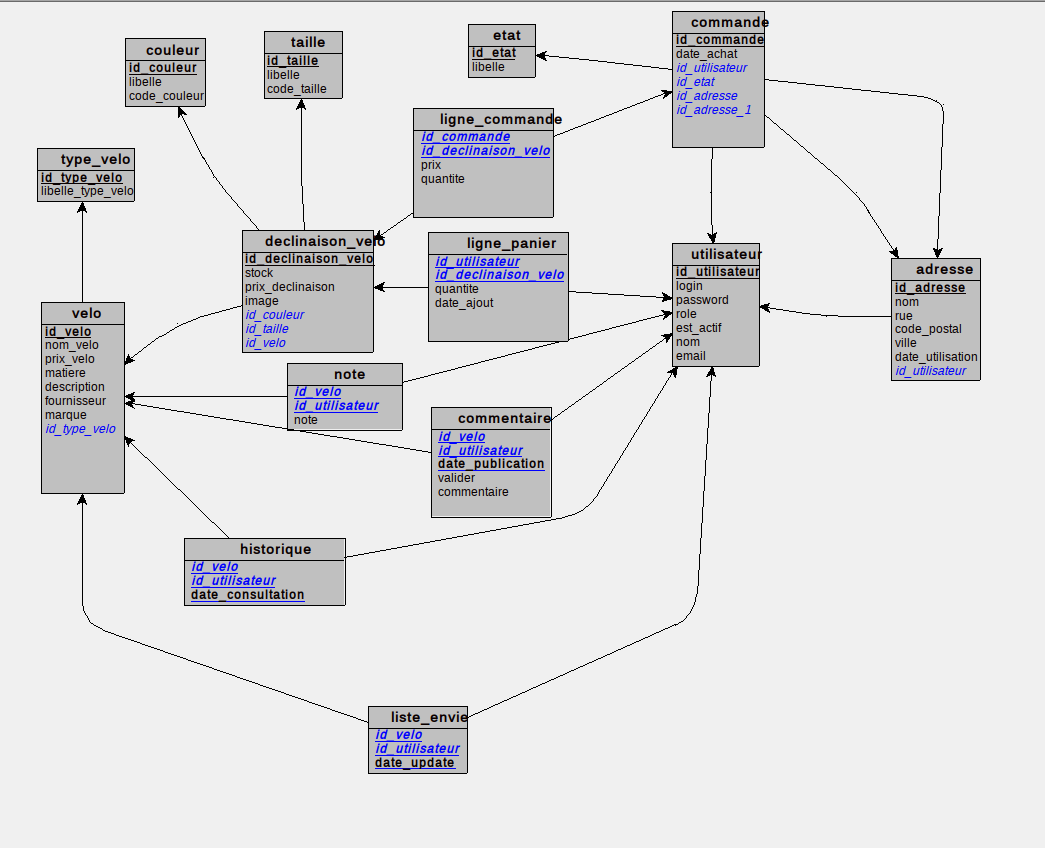
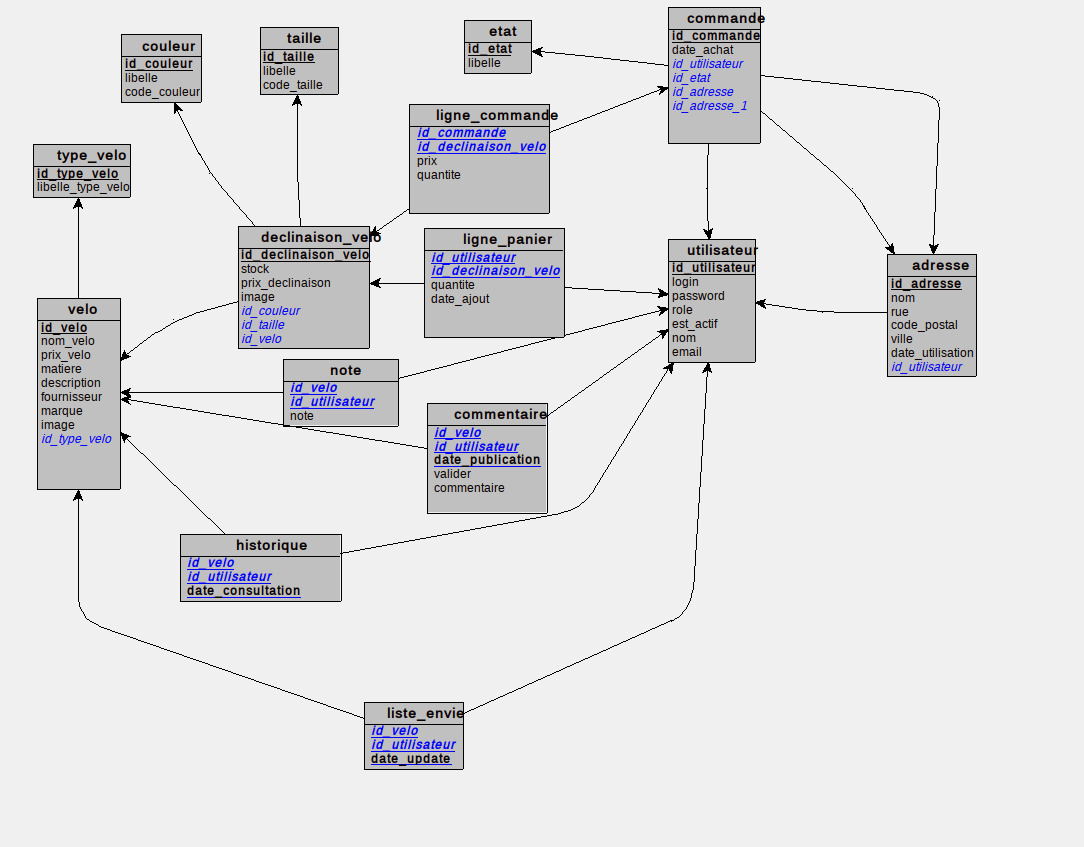
add image to velo

diff --git a/controllers/fixtures_load.py b/controllers/fixtures_load.py
@@ -180,6 +180,7 @@ def fct_fixtures_load():
        description VARCHAR(100),
        fournisseur VARCHAR(50),
        marque VARCHAR(50),
+        image VARCHAR(50),
        id_type_velo INT NOT NULL,
        PRIMARY KEY(id_velo),
        FOREIGN KEY(id_type_velo) REFERENCES type_velo(id_type_velo)
@@ -188,33 +189,33 @@ def fct_fixtures_load():
 
     mycursor.execute(sql)
     sql = '''
-    INSERT INTO velo (nom_velo, prix_velo, matiere, description, fournisseur, marque, id_type_velo) VALUES
-        -- BMX
-        ('BMX Orange',        100.00, 'Aluminium', 'BMX 20 pouces, 1 vitesse, freins patins',                              'Fournisseur BMX', 'BikeShop',     1), -- 1
-        -- Ville
-        ('Velo ville noir',   500.00, 'Acier',     'Vélo ville 26", 7 vitesses, éclairage dynamo, panier et porte-bagage', 'Urban Bikes',     'CityCycle',    2), -- 2
-        ('Velo ville jaune',  300.00, 'Acier',     'Vélo ville 24", 3 vitesses, garde-boue, panier et porte-bagage',       'Urban Bikes',     'CityCycle',    2), -- 3
-        ('Velo ville noir',   450.00, 'Acier',     'Vélo ville 26", 3 vitesses, freins disques, éclairage dynamo',         'Urban Bikes',     'VilleConfort', 2), -- 4
-        ('Velo ville rose',   450.00, 'Acier',     'Vélo ville 26", 3 vitesses, freins disques, dynamo, acc. complets',    'Urban Bikes',     'CityCycle',    2), -- 5
-        ('Velo ville orange', 350.00, 'Acier',     'Vélo ville 26", 3 vitesses, éclairage dynamo, porte-bagage',           'Urban Bikes',     'VilleConfort', 2), -- 6
-        ('Velo ville bleu',   350.00, 'Aluminium', 'Vélo ville 28", 3 vitesses, éclairage dynamo, porte-bagage',           'Urban Bikes',     'AluminiumPro', 2), -- 7
-        ('Velo ville blanc',  300.00, 'Acier',     'Vélo ville 24", 3 vitesses, freins disques, équipement complet',       'Urban Bikes',     'CityCycle',    2), -- 8
-        -- VTT
-        ('VTT orange',        450.00, 'Aluminium', 'VTT 26", 21 vitesses, freins disques',                                 'Mountain Gear',   'TrailPro',     3), -- 9
-        ('VTT noir',          750.00, 'Aluminium', 'VTT 28", 27 vitesses, freins disques, éclairage piles, garde-boue',    'Mountain Gear',   'AlpineSport',  3), -- 10
-        ('VTT noir',          600.00, 'Aluminium', 'VTT 26", 27 vitesses, freins patins',                                  'Mountain Gear',   'TrailPro',     3), -- 11
-        ('VTT orange',        800.00, 'Acier',     'VTT 28", 30 vitesses, freins disques haute performance',               'Mountain Gear',   'ProSport',     3), -- 12
-        -- Enfant
-        ('Velo enfant noir',  200.00, 'Acier',     'Vélo enfant 16", 5 vitesses, garde-boue',                              'Kids Bikes',      'Junior',       4), -- 13
-        ('Velo enfant bleu',  300.00, 'Acier',     'Vélo enfant 20", 5 vitesses, éclairage dynamo, garde-boue, panier',    'Kids Bikes',      'Junior',       4), -- 14
-        -- Pliant
-        ('Velo pliant',      1000.00, 'Acier',     'Vélo pliant 16", 6 vitesses, éclairage piles, compact et pratique',   'Compact Wheels',  'FoldMaster',   5), -- 15
-        -- VTC
-        ('VTC bleu',          400.00, 'Acier',     'VTC 28", 15 vitesses, éclairage dynamo, garde-boue, porte-bagage',     'Hybrid Cycles',   'Polyvalent',   6), -- 16
-        -- Route
-        ('Velo route bleu',   300.00, 'Acier',     'Vélo route 28", 10 vitesses, freins patins',                           'Speed Bikes',     'RacePro',      7), -- 17
-        ('Velo route marron', 250.00, 'Acier',     'Vélo route 28", 10 vitesses, freins patins',                           'Speed Bikes',     'ClassicRoad',  7), -- 18
-        ('Velo route rouge',  400.00, 'Acier',     'Vélo route 28", 15 vitesses, freins patins, performance',              'Speed Bikes',     'RacePro',      7); -- 19
+        INSERT INTO velo (nom_velo, prix_velo, matiere, description, fournisseur, marque, image, id_type_velo) VALUES
+                -- BMX
+                ('BMX Orange',        100.00, 'Aluminium', 'BMX 20 pouces, 1 vitesse, freins patins',                              'Fournisseur BMX', 'BikeShop',     'BMX1.jpg',  1), -- 1
+                -- Ville
+                ('Velo ville noir',   500.00, 'Acier',     'Vélo ville 26", 7 vitesses, éclairage dynamo, panier et porte-bagage', 'Urban Bikes',     'CityCycle',   'ville1.jpg',  2), -- 2
+                ('Velo ville jaune',  300.00, 'Acier',     'Vélo ville 24", 3 vitesses, garde-boue, panier et porte-bagage',       'Urban Bikes',     'CityCycle',    'ville2.jpg',2), -- 3
+                ('Velo ville noir',   450.00, 'Acier',     'Vélo ville 26", 3 vitesses, freins disques, éclairage dynamo',         'Urban Bikes',     'VilleConfort', 'ville3.jpg',  2), -- 4
+                ('Velo ville rose',   450.00, 'Acier',     'Vélo ville 26", 3 vitesses, freins disques, dynamo, acc. complets',    'Urban Bikes',     'CityCycle',   'ville4.jpeg',  2), -- 5
+                ('Velo ville orange', 350.00, 'Acier',     'Vélo ville 26", 3 vitesses, éclairage dynamo, porte-bagage',           'Urban Bikes',     'VilleConfort', 'ville5.jpg', 2), -- 6
+                ('Velo ville bleu',   350.00, 'Aluminium', 'Vélo ville 28", 3 vitesses, éclairage dynamo, porte-bagage',           'Urban Bikes',     'AluminiumPro','ville6.jpg',   2), -- 7
+                ('Velo ville blanc',  300.00, 'Acier',     'Vélo ville 24", 3 vitesses, freins disques, équipement complet',       'Urban Bikes',     'CityCycle',   'ville7.jpg',  2), -- 8
+                -- VTT
+                ('VTT orange',        450.00, 'Aluminium', 'VTT 26", 21 vitesses, freins disques',                                 'Mountain Gear',   'TrailPro',  'vtt1.jpeg',     3), -- 9
+                ('VTT noir',          750.00, 'Aluminium', 'VTT 28", 27 vitesses, freins disques, éclairage piles, garde-boue',    'Mountain Gear',   'AlpineSport', 'vtt2.jpeg',   3), -- 10
+                ('VTT noir',          600.00, 'Aluminium', 'VTT 26", 27 vitesses, freins patins',                                  'Mountain Gear',   'TrailPro',    'vtt3.jpeg',  3), -- 11
+                ('VTT orange',        800.00, 'Acier',     'VTT 28", 30 vitesses, freins disques haute performance',               'Mountain Gear',   'ProSport',   'vtt4.jpeg',     3), -- 12
+                -- Enfant
+                ('Velo enfant noir',  200.00, 'Acier',     'Vélo enfant 16", 5 vitesses, garde-boue',                              'Kids Bikes',      'Junior',     'enfant1.jpeg',  4), -- 13
+                ('Velo enfant bleu',  300.00, 'Acier',     'Vélo enfant 20", 5 vitesses, éclairage dynamo, garde-boue, panier',    'Kids Bikes',      'Junior',     'enfant2.jpeg',   4), -- 14
+                -- Pliant
+                ('Velo pliant',      1000.00, 'Acier',     'Vélo pliant 16", 6 vitesses, éclairage piles, compact et pratique',   'Compact Wheels',  'FoldMaster', 'pliant1.jpeg',  5), -- 15
+                -- VTC
+                ('VTC bleu',          400.00, 'Acier',     'VTC 28", 15 vitesses, éclairage dynamo, garde-boue, porte-bagage',     'Hybrid Cycles',   'Polyvalent',   'vtc1.jpeg',6), -- 16
+                -- Route
+                ('Velo route bleu',   300.00, 'Acier',     'Vélo route 28", 10 vitesses, freins patins',                           'Speed Bikes',     'RacePro',   'route1.jpeg',   7), -- 17
+                ('Velo route marron', 250.00, 'Acier',     'Vélo route 28", 10 vitesses, freins patins',                           'Speed Bikes',     'ClassicRoad',  'route2.jpeg', 7), -- 18
+                ('Velo route rouge',  400.00, 'Acier',     'Vélo route 28", 15 vitesses, freins patins, performance',              'Speed Bikes',     'RacePro',    'route3.jpeg',   7); -- 19
 '''
     mycursor.execute(sql)
 
